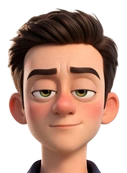
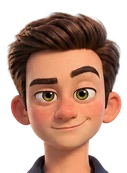
Redraw Alti with open eyes and add his poses and waving loop
- Owner's request: no droopy eyes, but still a bit sarcastic. Alti's
  front and three-quarter views are redrawn (eyes open, one eyebrow up,
  a small smirk); his head views are crops of them.
- Six poses (BRAND.assistantPoses): wave, phone, thumbs up, thinking,
  a yellow envelope, celebrate. CharacterFigure takes `pose`.
- AltiWaveLoop: a 4-second transparent waving loop for the home hero;
  a 30 KB still shows first and the loop swaps in after load, and
  reduced motion keeps the still.
- Poses on the site: FAQ (thinking), pricing (thumbs up), how it works
  (phone), the final call to action (envelope), onboarding (wave) and
  the client's graduation card (celebrate).
- BRAND.md and lock.json record the redraw and the generation job ids.

Claude-Session: https://claude.ai/code/session_013E759veZE4z9XN3EuDjSNA

diff --git a/src/components/Character.tsx b/src/components/Character.tsx
@@ -1,6 +1,7 @@
 "use client";
 
-import { BRAND, type CharacterImage, type CharacterView } from "@/lib/brand";
+import { BRAND, type AssistantPose, type CharacterImage, type CharacterView } from "@/lib/brand";
+import { useEffect, useState } from "react";
 import { useLocale } from "@/lib/i18n";
 
 // The brand's characters (src/lib/brand.ts; owner's decisions of 2026-11-24,
@@ -22,7 +23,10 @@ import { useLocale } from "@/lib/i18n";
 // .char-wave), never redrawing the art, and nothing moves for people who ask
 // for reduced motion.
 //
-// The art is locked (docs/BRAND.md): it is shown as delivered, only scaled.
+// Alti also has six poses (`pose="wave"`, "phone", "thumbsUp", "thinking",
+// "envelope", "celebrate") and a short waving loop (`AltiWaveLoop`).
+//
+// The art is shown as delivered, only scaled (docs/BRAND.md).
 // It is served as the kit's own @1x/@2x WebP files through srcSet, so a phone
 // with a retina screen gets the @2x file and nothing is re-encoded (next/image
 // would re-compress the art). Width and height are always set, so the layout
@@ -114,6 +118,7 @@ export function CharacterAvatar({
 export function CharacterFigure({
   character,
   view = "front",
+  pose,
   height,
   heightClassName,
   priority = false,
@@ -123,6 +128,8 @@ export function CharacterFigure({
 }: {
   character: Character;
   view?: Extract<CharacterView, "front" | "threeQuarter">;
+  /** One of Alti's poses instead of a view (the assistant only; AltiBot has none). */
+  pose?: AssistantPose;
   /** Subtle motion of the whole picture (transforms only). */
   motion?: CharacterMotion;
   /** Displayed height in px (CSS); the width keeps the art's proportions. */
@@ -138,7 +145,7 @@ export function CharacterFigure({
   className?: string;
 }) {
   const { locale } = useLocale();
-  const image = imagesOf(character)[view];
+  const image = pose && character === "assistant" ? BRAND.assistantPoses[pose] : imagesOf(character)[view];
   const width = Math.round((height * image.width) / image.height);
   return (
     // eslint-disable-next-line @next/next/no-img-element
@@ -155,6 +162,63 @@ export function CharacterFigure({
       className={`block shrink-0 select-none ${heightClassName ? `${heightClassName} w-auto` : "h-auto"} ${MOTION_CLASS[motion]} ${className}`}
       style={heightClassName ? { aspectRatio: `${image.width} / ${image.height}` } : { width, aspectRatio: `${image.width} / ${image.height}` }}
       data-character={character}
+    />
+  );
+}
+
+/** The waving loop's frame size in px (the file is drawn at this size; shown at half for retina). */
+const WAVE_LOOP = { src: "/brand/characters/alti_wave_loop.webp", still: "/brand/characters/alti_wave_loop_still.webp", width: 309, height: 640 };
+
+/**
+ * Alti waving hello, a 4-second loop (an animated WebP with a transparent
+ * background, so it sits on any navy). The first frame (30 KB) shows at
+ * once; the loop (about 1.2 MB) loads after the page and swaps in, so it never
+ * slows the first paint. People who ask for reduced motion keep the still.
+ * Give it a display height; the width follows.
+ */
+export function AltiWaveLoop({
+  height,
+  heightClassName,
+  priority = false,
+  decorative = false,
+  className = "",
+}: {
+  height: number;
+  heightClassName?: string;
+  priority?: boolean;
+  decorative?: boolean;
+  className?: string;
+}) {
+  const { locale } = useLocale();
+  const [src, setSrc] = useState(WAVE_LOOP.still);
+  useEffect(() => {
+    if (window.matchMedia?.("(prefers-reduced-motion: reduce)").matches) return;
+    let live = true;
+    const loop = new window.Image();
+    loop.onload = () => {
+      if (live) setSrc(WAVE_LOOP.src);
+    };
+    loop.src = WAVE_LOOP.src;
+    return () => {
+      live = false;
+    };
+  }, []);
+  const width = Math.round((height * WAVE_LOOP.width) / WAVE_LOOP.height);
+  const ratio = `${WAVE_LOOP.width} / ${WAVE_LOOP.height}`;
+  return (
+    // eslint-disable-next-line @next/next/no-img-element
+    <img
+      src={src}
+      width={width}
+      height={height}
+      alt={decorative ? "" : altOf("assistant", locale)}
+      loading={priority ? "eager" : "lazy"}
+      fetchPriority={priority ? "high" : undefined}
+      draggable={false}
+      className={`block shrink-0 select-none ${heightClassName ? `${heightClassName} w-auto` : "h-auto"} ${className}`}
+      style={heightClassName ? { aspectRatio: ratio } : { width, aspectRatio: ratio }}
+      data-character="assistant"
+      data-loop={src === WAVE_LOOP.src ? "on" : "off"}
     />
   );
 }

diff --git a/src/lib/brand.ts b/src/lib/brand.ts
@@ -24,9 +24,11 @@
 // - A real teammate's message always carries that person's own name ("Ana ·
 //   Credalti team", `teamByline`), never Alti's and never a character.
 //
-// The character art and the logo are locked: never edit, recolour, re-crop or
-// regenerate them. The files under public/brand/ are copied unchanged from the
-// kit.
+// The logo and AltiBot's art are locked: never edit, recolour, re-crop or
+// regenerate them; those files are copied unchanged from the kit. Alti's art
+// was redrawn once, at the owner's request on 2026-11-24 (eyes open, a bit
+// sarcastic), and his poses were added then; change it again only when the
+// owner asks.
 //
 // Not renamed on purpose: localStorage keys ("bonalti.*"), routes, database
 // objects, the package name and `internalName`. They come from the internal
@@ -106,12 +108,35 @@ const CAMEO_ART: Record<CharacterView, CharacterImage> = {
   headThreeQuarter: art("altibot_head_three_quarter", 304, 212),
 };
 
-/** The young man in the navy overshirt, from the brand kit's alti/ folder: the AI assistant. */
+/**
+ * The young man in the navy overshirt: the AI assistant. Redrawn on
+ * 2026-11-24 at the owner's request ("no droopy eyes", "still a bit
+ * sarcastic"): eyes open, one eyebrow up, a small smirk; same face, outfit
+ * and style as the kit. The head views are crops of the two standing views.
+ */
 const ASSISTANT_ART: Record<CharacterView, CharacterImage> = {
-  front: art("alti_front", 312, 768),
-  threeQuarter: art("alti_three_quarter", 289, 768),
+  front: art("alti_front", 276, 768),
+  threeQuarter: art("alti_three_quarter", 247, 768),
   headFront: art("alti_head_front", 127, 173),
-  headThreeQuarter: art("alti_head_three_quarter", 128, 173),
+  headThreeQuarter: art("alti_head_three_quarter", 127, 173),
+};
+
+/** Alti's poses (2026-11-24), same art as above, for the website's sections. */
+export type AssistantPose = "wave" | "phone" | "thumbsUp" | "thinking" | "envelope" | "celebrate";
+
+const ASSISTANT_POSES: Record<AssistantPose, CharacterImage> = {
+  /** Waving hello. */
+  wave: art("alti_wave", 335, 768),
+  /** Holding a phone and pointing at it (the screen shows only checkmarks: never a score). */
+  phone: art("alti_phone", 299, 768),
+  /** Thumbs up. */
+  thumbsUp: art("alti_thumbsup", 299, 768),
+  /** Hand on chin, thinking (questions, the FAQ). */
+  thinking: art("alti_thinking", 228, 768),
+  /** Holding a yellow envelope (letters, mailing). */
+  envelope: art("alti_envelope", 291, 768),
+  /** A small cheer (a finished step; never a promised result). */
+  celebrate: art("alti_celebrate", 364, 768),
 };
 
 // The display name, apart so the descriptions below can use it. Change it
@@ -132,6 +157,8 @@ export const BRAND = {
   assistant: ASSISTANT,
   /** The assistant's art (Alti). */
   assistantImages: ASSISTANT_ART,
+  /** The assistant's poses (wave, phone, thumbs up, thinking, envelope, celebrate). */
+  assistantPoses: ASSISTANT_POSES,
   /** Image description of the assistant, for screen readers: always says AI, never a person. */
   assistantAlt: {
     es: `${ASSISTANT}, tu asistente con inteligencia artificial (no es una persona)`,
@@ -182,7 +209,7 @@ export function teamByline(firstName: string, locale: BrandLocale): string {
 }
 
 /** Every character image the brand points at, for the check that they exist. */
-export const BRAND_IMAGE_PATHS: string[] = [BRAND.assistantImages, BRAND.cameoImages].flatMap((set) =>
+export const BRAND_IMAGE_PATHS: string[] = [BRAND.assistantImages, BRAND.assistantPoses, BRAND.cameoImages].flatMap((set) =>
   Object.values(set).flatMap((image) => [image.src, image.src2x]),
 );
 

diff --git a/src/app/page.tsx b/src/app/page.tsx
@@ -1,5 +1,5 @@
 import Icon from "@/components/Icon";
-import { CharacterAvatar, CharacterFigure } from "@/components/Character";
+import { AltiWaveLoop, CharacterAvatar, CharacterFigure } from "@/components/Character";
 import SiteShell, { askClientCopy, askCtas } from "@/components/site/SiteShell";
 import { CompareToggle, HeroPhone, HomeReadyTeaser, HowScroll, ReportQuiz, Tools } from "@/components/site/islands";
 import { Reveal, StatPictogram } from "@/components/site/motion";
@@ -72,7 +72,7 @@ export default async function Home() {
             <div aria-labelledby="demo" className="relative">
               {/* Phones and tablets: Alti introduces the phone, labelled as AI. */}
               <div className="mb-6 flex items-end justify-center gap-4 lg:hidden">
-                <CharacterFigure character="assistant" view="threeQuarter" height={170} priority motion="wave" />
+                <AltiWaveLoop height={170} priority />
                 <p className="mb-6 max-w-[190px] rounded-2xl rounded-bl-md bg-white/10 px-3.5 py-2.5 text-[14px] font-semibold leading-snug text-white ring-1 ring-inset ring-white/15">
                   {byline}
                   <span className="mt-0.5 block text-[12.5px] font-medium text-blue-100">{live.ask.subtitle}</span>
@@ -117,7 +117,7 @@ export default async function Home() {
                 ))}
               </ul>
               <figure className="flex flex-col items-center">
-                <CharacterFigure character="assistant" view="threeQuarter" height={300} priority motion="idle" />
+                <AltiWaveLoop height={300} priority />
                 <figcaption data-on-navy className="mt-3 whitespace-nowrap rounded-full bg-white/10 px-3 py-1 text-[13px] font-semibold text-amber-300">
                   {byline}
                 </figcaption>
@@ -333,7 +333,7 @@ export default async function Home() {
         <section aria-labelledby="final" className="relative overflow-hidden bg-blue-900 py-16 text-white sm:py-24">
           <Container className="relative text-center">
             <div className="flex flex-col items-center">
-              <CharacterAvatar character="assistant" size={84} className="ring-4 ring-amber-400" />
+              <CharacterFigure character="assistant" pose="envelope" height={200} decorative />
               <p data-on-navy className="mt-3 text-[13px] font-semibold text-amber-300">
                 {BRAND.assistant} · {BRAND.aiLabel[locale]}
               </p>

diff --git a/src/components/aftercare/Graduation.tsx b/src/components/aftercare/Graduation.tsx
@@ -2,7 +2,7 @@
 
 import Link from "next/link";
 import { useState } from "react";
-import { CharacterAvatar } from "@/components/Character";
+import { CharacterFigure } from "@/components/Character";
 import Icon from "@/components/Icon";
 import { GRADUATION_COPY, graduationStatus, graduationSummary, type GraduationStatus } from "@/lib/aftercare/graduation";
 import { useAftercare } from "@/lib/aftercare/useAftercare";
@@ -49,9 +49,9 @@ export default function GraduationCard({ caseView, locale, aftercare, where }: {
     const g = status.graduation;
     return (
       <section className="card overflow-hidden" data-testid="graduation" aria-labelledby="graduation-title">
-        <div className="flex items-center gap-4 bg-blue-900 px-5 py-5 text-white">
-          <CharacterAvatar character="assistant" size={56} />
-          <div className="min-w-0">
+        <div className="flex items-end gap-4 bg-blue-900 px-5 pt-4 text-white">
+          <CharacterFigure character="assistant" pose="celebrate" height={110} decorative className="-mb-px" />
+          <div className="min-w-0 pb-5">
             <h2 id="graduation-title" className="font-display text-[24px] font-bold leading-tight text-white">{c.doneTitle}</h2>
             <p className="mt-1 text-[15px] leading-snug text-white">{c.doneLead(caseDay(g.completedAt, locale))}</p>
           </div>

diff --git a/src/components/site/ui.tsx b/src/components/site/ui.tsx
@@ -113,11 +113,29 @@ export function ArrowLink({ href, children, onNavy = false }: { href: string; ch
 }
 
 /** The top of every inner page: navy, with its eyebrow, title and lead. One h1 per page. */
-export function PageHero({ eyebrow, title, lead, children }: { eyebrow: string; title: string; lead: string; children?: React.ReactNode }) {
+export function PageHero({
+  eyebrow,
+  title,
+  lead,
+  figure,
+  children,
+}: {
+  eyebrow: string;
+  title: string;
+  lead: string;
+  /** A picture standing at the bottom right on wide screens (e.g. one of Alti's poses, decorative). */
+  figure?: React.ReactNode;
+  children?: React.ReactNode;
+}) {
   return (
     <section className="relative overflow-hidden bg-blue-900 text-white">
       <div aria-hidden className="pointer-events-none absolute -right-40 -top-40 h-[420px] w-[420px] rounded-full bg-blue-800/70 blur-3xl" />
       <Container className="relative pb-14 pt-10 sm:pb-20 sm:pt-16">
+        {figure && (
+          <div aria-hidden className="pointer-events-none absolute bottom-0 right-6 hidden lg:block">
+            {figure}
+          </div>
+        )}
         <Eyebrow onNavy>{eyebrow}</Eyebrow>
         <h1 className="mt-3 max-w-3xl font-display text-[34px] font-bold leading-[1.1] sm:text-[52px]">{title}</h1>
         <Lead onNavy className="mt-5 max-w-2xl">

diff --git a/src/lib/__tests__/brand.test.ts b/src/lib/__tests__/brand.test.ts
@@ -109,13 +109,13 @@ describe("brand", () => {
   });
 
   it("points at character images that exist, in @1x and @2x", () => {
-    // Four views of each character, each in two sizes.
-    expect(BRAND_IMAGE_PATHS).toHaveLength(16);
+    // Four views of each character plus Alti's six poses, each in two sizes.
+    expect(BRAND_IMAGE_PATHS).toHaveLength(28);
     for (const path of BRAND_IMAGE_PATHS) {
       expect(path, path).toMatch(/^\/brand\/characters\/.+@[12]x\.webp$/);
       expect(existsSync(join("public", path)), path).toBe(true);
     }
-    for (const set of [BRAND.assistantImages, BRAND.cameoImages]) {
+    for (const set of [BRAND.assistantImages, BRAND.assistantPoses, BRAND.cameoImages]) {
       for (const image of Object.values(set)) {
         expect(image.width, image.src).toBeGreaterThan(0);
         expect(image.height, image.src).toBeGreaterThan(0);

diff --git a/src/app/como-funciona/page.tsx b/src/app/como-funciona/page.tsx
@@ -1,3 +1,4 @@
+import { CharacterFigure } from "@/components/Character";
 import { HomeReadyTeaser, HowScroll } from "@/components/site/islands";
 import { Reveal } from "@/components/site/motion";
 import { ONLINE_START } from "@/lib/site/cta";
@@ -29,7 +30,7 @@ export default async function HowItWorks() {
   return (
     <SiteShell>
       <main>
-        <PageHero eyebrow={h.eyebrow} title={h.title} lead={h.lead} />
+        <PageHero eyebrow={h.eyebrow} title={h.title} lead={h.lead} figure={<CharacterFigure character="assistant" pose="phone" height={250} decorative />} />
 
         {/* The journey as a scroll story: the phone stays, its screen follows the step (HowScroll). */}
         <section aria-label={h.eyebrow} className="py-14 sm:py-20" data-shot-width={SHOT.width}>

diff --git a/src/app/preguntas/page.tsx b/src/app/preguntas/page.tsx
@@ -1,3 +1,4 @@
+import { CharacterFigure } from "@/components/Character";
 import SiteShell from "@/components/site/SiteShell";
 import { Container, CtaGroup, Eyebrow, FaqList, Lead, PageHero, SectionTitle } from "@/components/site/ui";
 import { ReportQuiz, Tools } from "@/components/site/islands";
@@ -21,7 +22,7 @@ export default async function Faq() {
   return (
     <SiteShell>
       <main>
-        <PageHero eyebrow={f.eyebrow} title={f.title} lead={f.lead} />
+        <PageHero eyebrow={f.eyebrow} title={f.title} lead={f.lead} figure={<CharacterFigure character="assistant" pose="thinking" height={250} decorative />} />
         <section aria-label={f.title} className="py-12 sm:py-16">
           <Container narrow>
             <FaqList items={f.items} />

diff --git a/src/app/onboarding/page.tsx b/src/app/onboarding/page.tsx
@@ -297,7 +297,7 @@ function Onboarding() {
         <div className="animate-rise flex flex-1 flex-col pt-10">
           {/* Alti, the AI assistant, stands on a white card, feet on its lower edge, labelled as AI. */}
           <div className="card flex items-end gap-5 overflow-hidden px-6 pt-5">
-            <CharacterFigure character="assistant" height={150} motion="wave" />
+            <CharacterFigure character="assistant" pose="wave" height={150} motion="idle" />
             <div className="self-center pb-5">
               <p className="font-display text-[19px] font-bold leading-tight text-blue-700" data-testid="welcome-ai-byline">{aiByline(locale)}</p>
               <p className="mt-1 text-[14px] leading-snug text-slate-600">

diff --git a/src/app/precios/page.tsx b/src/app/precios/page.tsx
@@ -1,3 +1,4 @@
+import { CharacterFigure } from "@/components/Character";
 import Icon, { type IconName } from "@/components/Icon";
 import SiteShell from "@/components/site/SiteShell";
 import { IncludedGrid } from "@/components/site/sections";
@@ -35,7 +36,7 @@ export default async function Pricing() {
   return (
     <SiteShell>
       <main>
-        <PageHero eyebrow={p.eyebrow} title={p.title} lead={p.lead} />
+        <PageHero eyebrow={p.eyebrow} title={p.title} lead={p.lead} figure={<CharacterFigure character="assistant" pose="thumbsUp" height={250} decorative />} />
 
         {/* Plans, or how they are explained */}
         <section aria-labelledby="plans" className="py-14 sm:py-20">

diff --git a/docs/BRAND.md b/docs/BRAND.md
@@ -343,12 +343,18 @@ AI assistant"; a teammate's carries their name and never "Alti"),
 Rules for the characters:
 
 - **The art is locked.** Never edit, redraw, recolour, re-crop or regenerate
-  either character. The files in `public/brand/characters/` are the kit's own
-  WebP files, copied unchanged (the robot's renamed from `bonalti_*` to
-  `altibot_*`, contents identical): four views per character (`front`,
-  `three_quarter`, `head_front`, `head_three_quarter`), each at @1x and @2x,
-  served with `srcSet` so retina screens get @2x. The round avatars show the
-  kit's head crops inside a circle; nothing is cropped into new files. Motion
+  AltiBot: his files in `public/brand/characters/` are the kit's own WebP
+  files, copied unchanged (renamed from `bonalti_*` to `altibot_*`, contents
+  identical). **Alti was redrawn once, at the owner's request (2026-11-24):**
+  "no droopy eyes", but "still a bit sarcastic". His eyes are now open, one
+  eyebrow is up and he has a small smirk; face, outfit and style are the
+  kit's. His two head views are crops of the new standing views. Six poses
+  were made with him (`alti_wave`, `alti_phone`, `alti_thumbsup`,
+  `alti_thinking`, `alti_envelope` with a yellow envelope, `alti_celebrate`;
+  `BRAND.assistantPoses`). Change his art again only when the owner asks.
+  Each character has four views (`front`, `three_quarter`, `head_front`,
+  `head_three_quarter`), each at @1x and @2x, served with `srcSet` so retina
+  screens get @2x. The round avatars show the head views inside a circle. Motion
   (`motion="idle"` / `"wave"` on `CharacterFigure`) moves the whole picture with
   CSS transforms only, and stops for visitors who ask for reduced motion.
 - **Surfaces:** navy or ivory/white. On very dark or saturated backgrounds a
@@ -402,7 +408,7 @@ do-it-yourself wording and its approve button, kept for later.
 | Colours | `@theme` block in `src/app/globals.css` | `blue-*` is navy, `amber-*` is gold, `slate-*` is neutral (see "Colours"). Edit the values; `tokens.test.ts` checks the brand values and the contrast. |
 | Names, logo paths, icons | `src/lib/brand.ts` | Company name, the page titles, the logo files (`logo`), the app icons and theme colour (`APP_ICONS`), the assistant `assistant` / `assistantImages` / `aiLabel` (Alti) with `aiByline` and `teamByline`, and the cameo `cameo` / `cameoImages` (AltiBot), with their image descriptions. |
 | Logo | `public/brand/logo/*.svg`, shown by `src/components/Logo.tsx` | The kit's files, byte for byte (see "Logo"). |
-| Characters | `public/brand/characters/*.webp`, drawn by `CharacterAvatar` (round head) and `CharacterFigure` (standing) in `src/components/Character.tsx` | Locked art from the brand kit; see "Characters". A test checks every path in `brand.ts` exists. |
+| Characters | `public/brand/characters/*.webp`, drawn by `CharacterAvatar` (round head) and `CharacterFigure` (standing) in `src/components/Character.tsx` | Brand kit art (Alti redrawn at the owner's request, 2026-11-24, plus six poses); see "Characters". A test checks every path in `brand.ts` exists. |
 | Favicon, app icons, manifest | `src/app/favicon.ico`, `icon.svg`, `apple-icon.png`, `manifest.ts`; `public/brand/icons/` | See "Favicon and app icons". |
 | Typefaces | `src/app/layout.tsx` | See "Typography". |
 
@@ -457,8 +463,7 @@ card and has to be assembled again before it runs.
   signage or ads.
 - **Alti's voice:** not chosen yet, for video; any voice must say it is AI.
 - **Ads:** every existing video shows the old mascot and must be remade.
-- **More poses:** the kit has four views per character (front, three-quarter,
-  side, back). Real poses such as waving would have to come from the owner as
-  new locked art; the site's "wave" is only a gentle sway of the whole picture.
+- **More poses:** Alti has six poses (2026-11-24) and a 4-second waving loop
+  on the home page. AltiBot has only the kit's views.
 - **AI-disclosure laws:** counsel to confirm the table above against the
   official texts.
